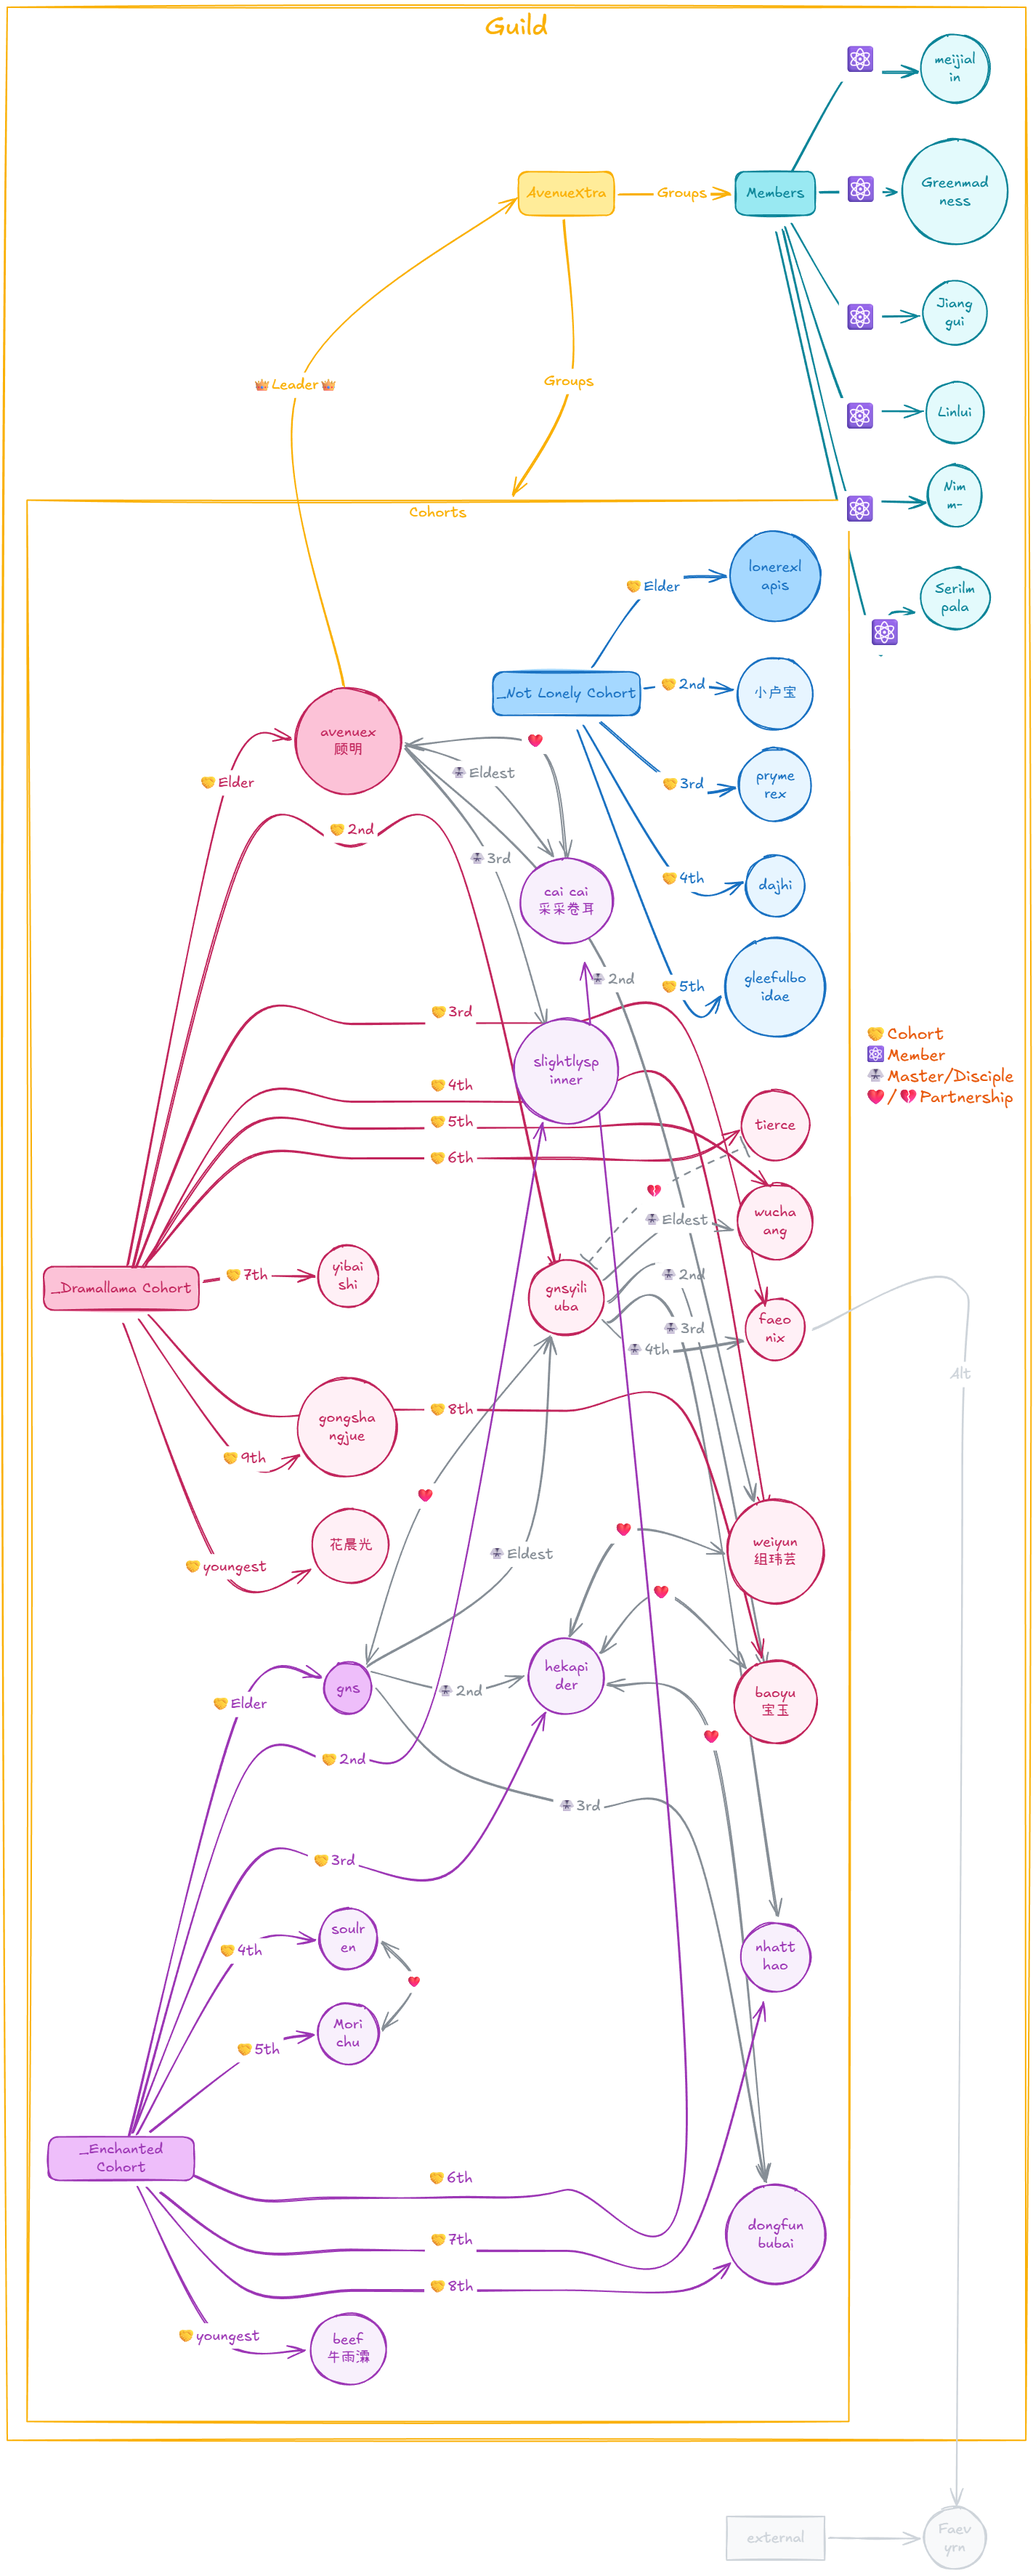
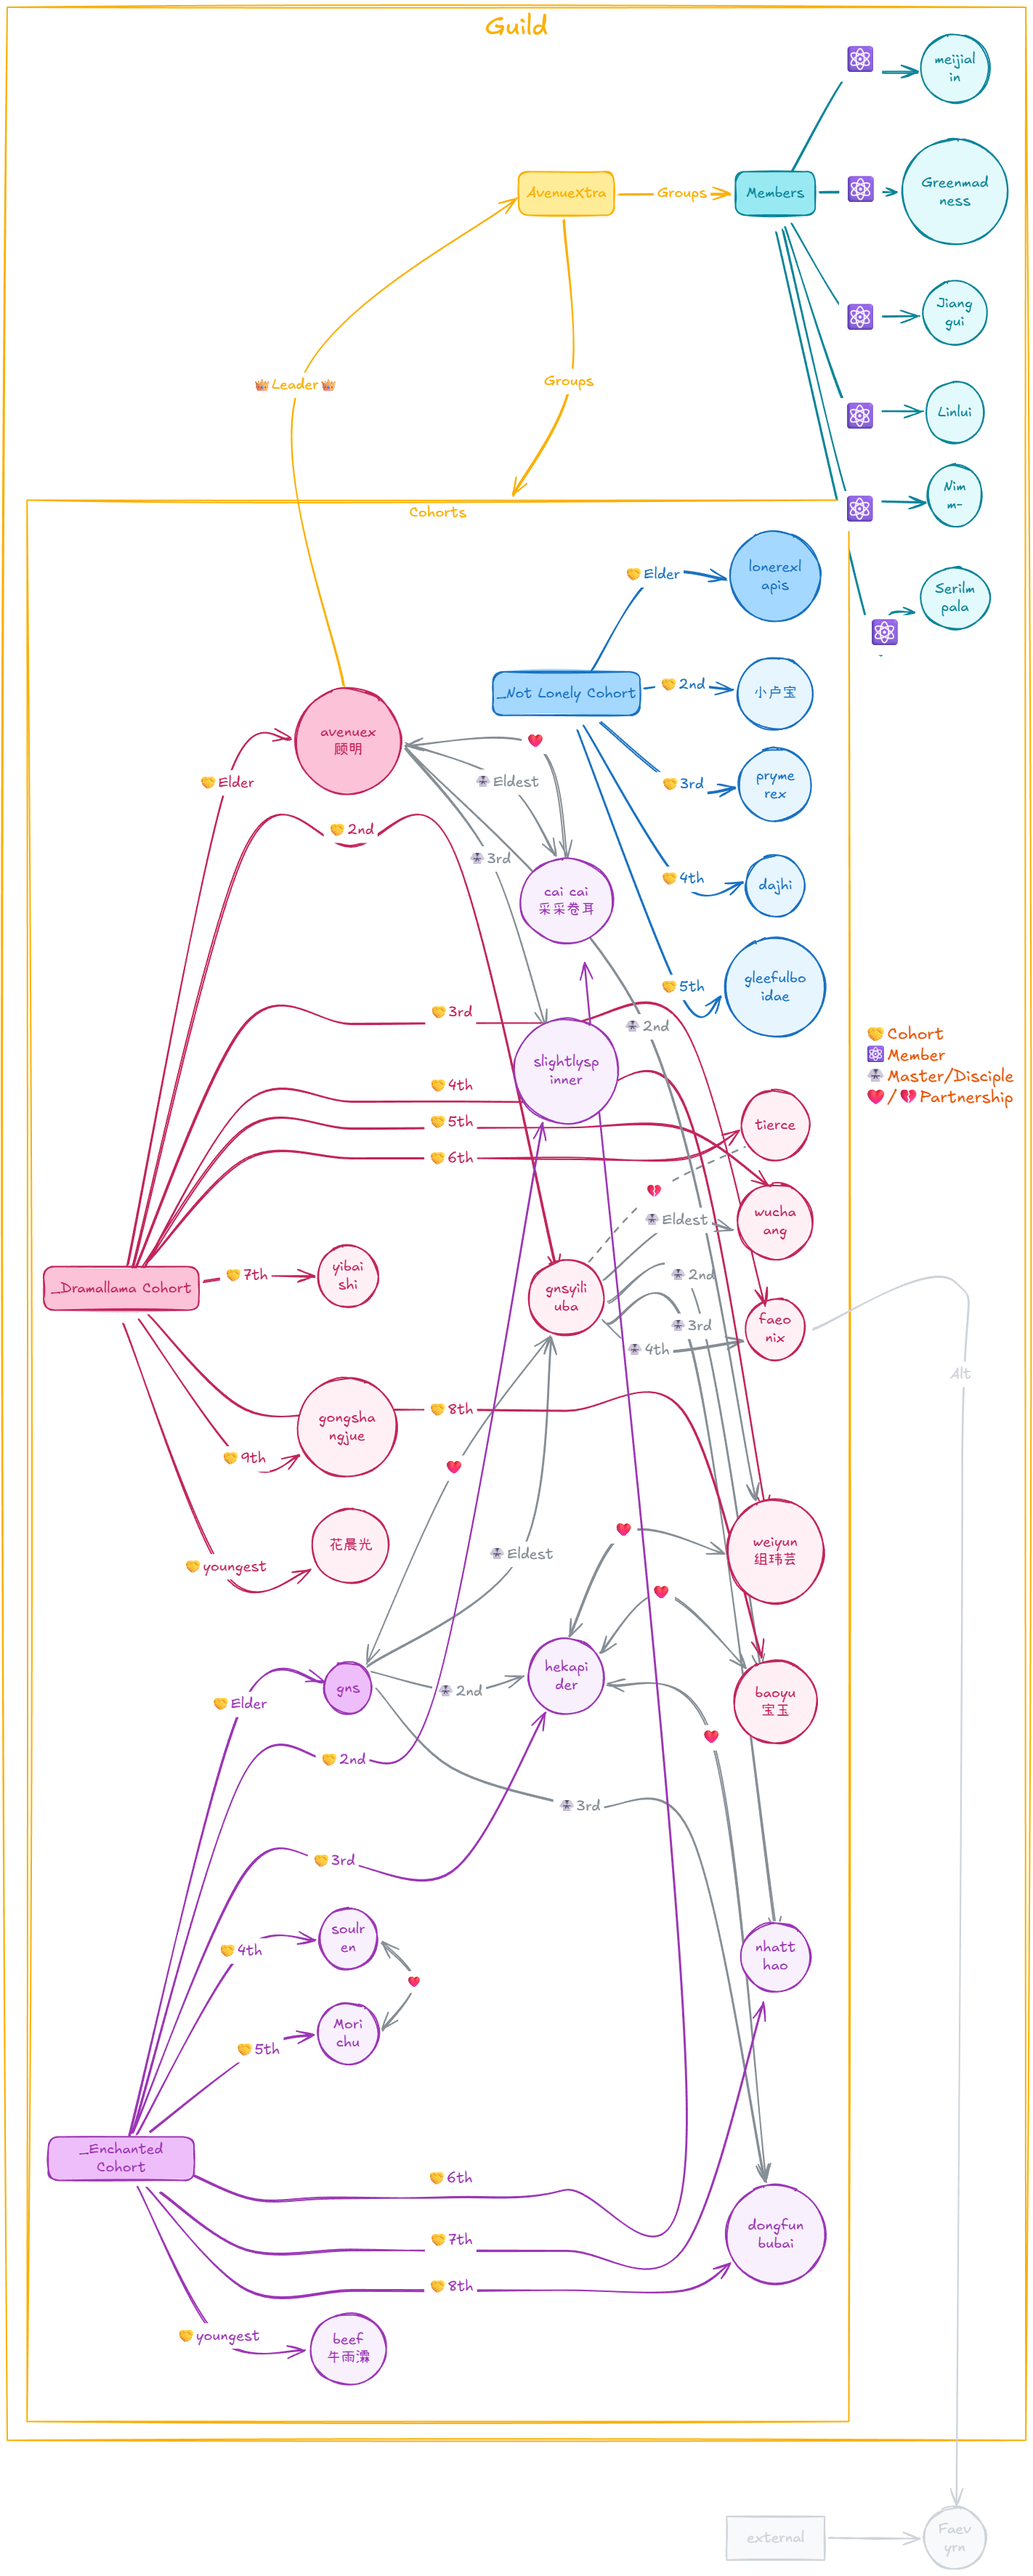
Quartz sync: Jun 30, 2026, 1:46 PM

diff --git a/content/Guild/AvenueXtra.md b/content/Guild/AvenueXtra.md
@@ -20,7 +20,7 @@ img: "[[guild.png]]"
 ![[guild splash.png]]
 ---
 
-![[AvenueXtra-org.svg|760]]
+![[AvenueXtra-org.png|760]]
 
 ---
 # Guild Base Tour 

diff --git a/content/index.md b/content/index.md
@@ -21,7 +21,7 @@ img: "[[guild.png]]"
 ![[guild splash.png]]
 ---
 
-![[AvenueXtra-org.svg|760]]
+![[AvenueXtra-org.png|760]]
 
 ---
 
